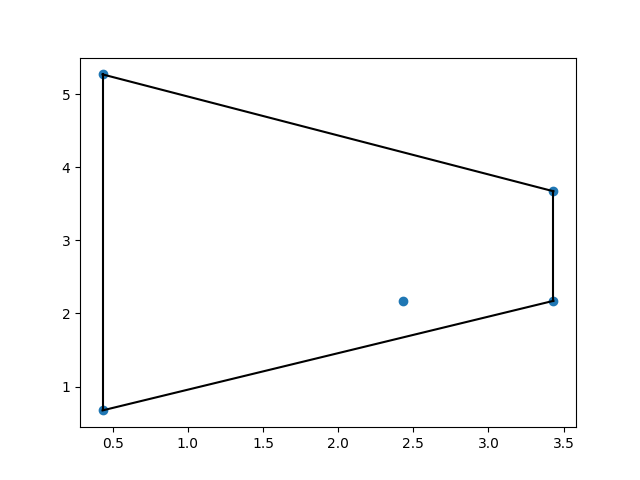
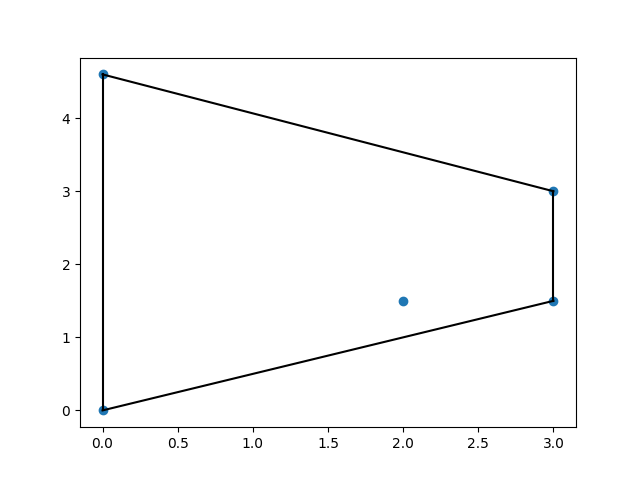
sympy

diff --git a/pose_estimation/Construct_Ospaces.py b/pose_estimation/Construct_Ospaces.py
@@ -1,65 +1,36 @@
-def get_orientation(self, origin, p1, p2):
-    '''
-    Returns the orientation of the Point p1 with regards to Point p2 using origin.
-    Negative if p1 is clockwise of p2.
-    :param p1:
-    :param p2:
-    :return: integer
-    '''
-    difference = (
-        ((p2.x - origin.x) * (p1.y - origin.y))
-        - ((p1.x - origin.x) * (p2.y - origin.y))
-    )
+import numpy as np
+from scipy.spatial import ConvexHull, convex_hull_plot_2d
+import matplotlib.pyplot as plt
+import random
+center1 = [0,0]
+center2 = [3,3]
+center3 = [2,1.5]
+center4 = [3,1]
+center5 = [0,4]
 
-    return difference
 
-def compute_hull(self):
-    '''
-    Computes the points that make up the convex hull.
-    :return:
-    '''
-    points = self._points
+center = [center1, center2, center3, center4, center5]
 
-    # get leftmost point
-    start = points[0]
-    min_x = start.x
-    for p in points[1:]:
-        if p.x < min_x:
-            min_x = p.x
-            start = p
 
-    point = start
-    self._hull_points.append(start)
 
-    far_point = None
-    while far_point is not start:
+arr = np.array([center]).reshape(-1, 2)
+#arr = np.array(list(zip(x, y)))
+print("right:", arr)
 
-        # get the first point (initial max) to use to compare with others
-        p1 = None
-        for p in points:
-            if p is point:
-                continue
-            else:
-                p1 = p
-                break
+def convexHull(peopleCentrum):
 
-        far_point = p1
+    array=[]
+    array=peopleCentrum
 
-        for p2 in points:
-            # ensure we aren't comparing to self or pivot point
-            if p2 is point or p2 is p1:
-                continue
-            else:
-                direction = get_orientation(point, far_point, p2)
-                if direction > 0:
-                    far_point = p2
+    plt.plot(array[:,0], array[:,1], '+')
+    hull = ConvexHull(array)
+    for simplex in hull.simplices:
+        plt.plot(array[simplex, 0], array[simplex, 1], 'k-')
+        print("x",array[simplex,0])
+        print("y",array[simplex,1])
+    plt.show()
 
-        self._hull_points.append(far_point)
-        point = far_point
+    if 2+2==4:
+        print("simon er gay")
 
-def get_hull_points(self):
-    if self._points and not self._hull_points:
-        self.compute_hull()
-
-    return self._hull_points
-
+convexHull(arr)

diff --git a/pose_estimation/ray_casting.py b/pose_estimation/ray_casting.py
@@ -1,0 +1,39 @@
+import numpy as np
+from sympy.solvers import solve
+from sympy import Symbol
+
+array1 = np.array([[0, 4],[0,0]]).reshape(-1, 2)
+array2 = np.array([[0, 4],[3,3]]).reshape(-1, 2)
+array3 = np.array([[3, 1],[3,3]]).reshape(-1, 2)
+array4 = np.array([[3, 1],[0,0]]).reshape(-1, 2)
+
+polyarray = [array1, array2, array3, array4]
+
+def Line_constructor(arr):
+    #Dan linjens ligning ud fra 
+    y1 = arr[0][1]
+    y2 = arr[1][1]
+    x1 = arr[0][0]
+    x2 = arr[1][0]
+
+    deltay = y2-y1
+    deltax = x2-x1
+    if deltax == 0:
+        print('The line is vertical')
+        x1 = x1 + 0.000001
+        deltay = y2-y1
+        deltax = x2-x1
+    a = deltay/deltax
+    b = y1-a*x1
+    return a, b
+    
+def Ray_casting(polyArr, point):
+    pointArray = np.array([[point[0], point[1]],[point[0]+20,point[1]]]).reshape(-1, 2)
+    rayA,rayB = Line_constructor(pointArray)
+    for i in range(0,len(polyArr)):
+        a,b = Line_constructor(polyArr[i])
+        #crossing = 
+
+    return 0
+
+#print("output: ",Line_constructor(array))

diff --git a/pose_estimation/f_FormationDetector.py b/pose_estimation/f_FormationDetector.py
@@ -69,8 +69,10 @@ oSpace_combinations = generate_OspaceCombinations.oSpaceCombinations(num_persons
     # Check O-space
     #6.1    Remove O-space if a person is inside a O-space
             # point in polygon method
+            # Ray casting algorithm
     #6.2    Remove O-space if one or more person is not looking into the O-space
             # point in polygon method, but here construct a point in the orientation axis
+    #6.2.1    find a method for when only two persons form a o-space
 
 #7. 
     # Construct a convexhull based of the valid O-spaces from #6

diff --git a/pose_estimation/generate_OspaceCombinations.py b/pose_estimation/generate_OspaceCombinations.py
@@ -79,4 +79,4 @@ def oSpaceCombinations(num):
     return newCombination
 
 
-oSpaceCombinations(6)
+oSpaceCombinations(9)
